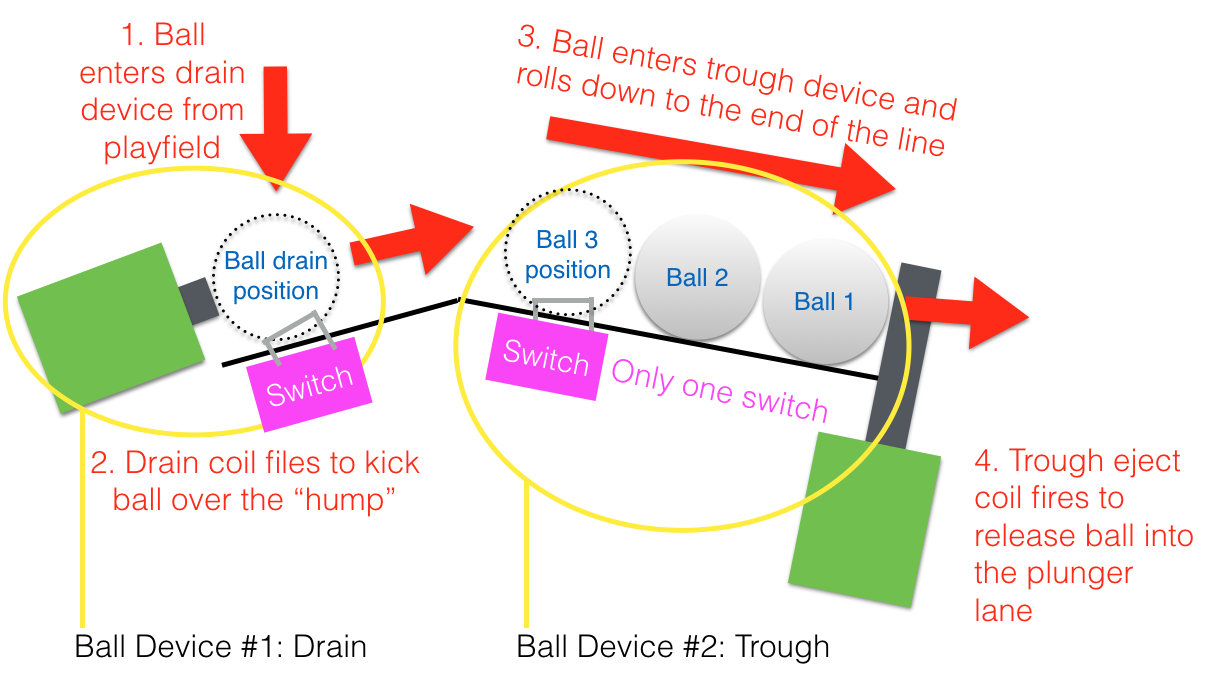
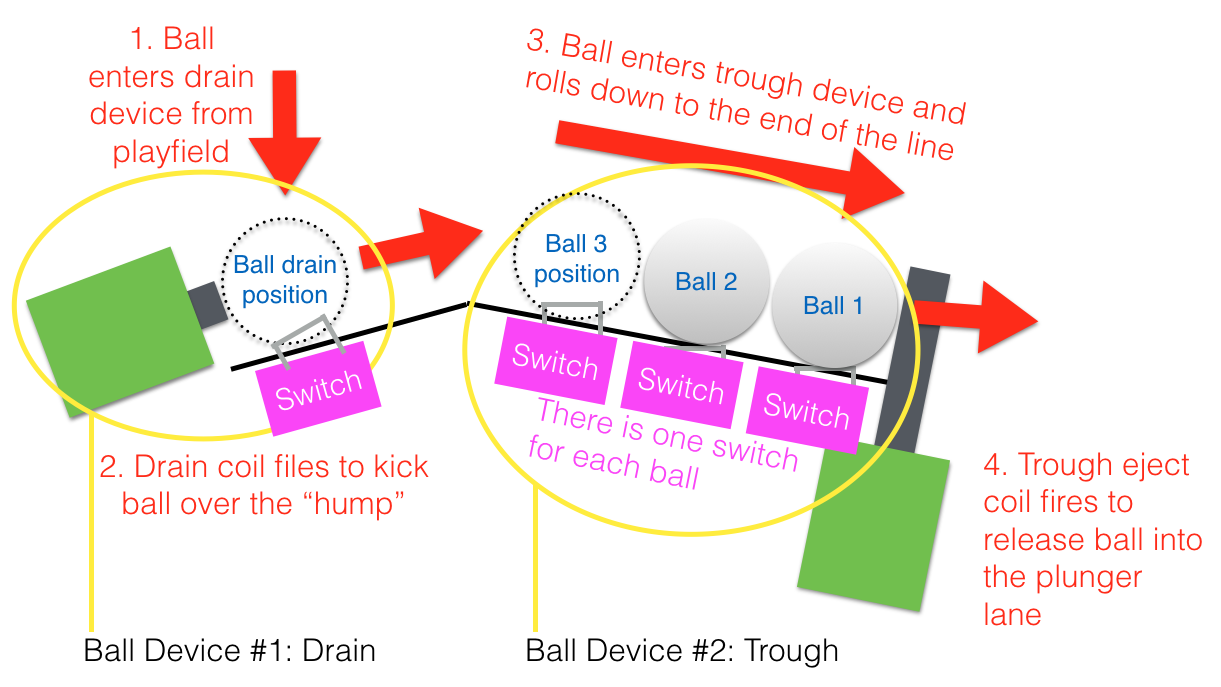
removed old docs & typos

diff --git a/mechs/troughs/test_two_coil_multiple_switches.py b/mechs/troughs/test_two_coil_multiple_switches.py
@@ -5,7 +5,7 @@ class TestTwoCoilMultipleSwitches(MpfDocsTestCase):
 
     rst_target = 'mechs/troughs/two_coil_multiple_switches'
 
-    def test_modern_mechanical(self):
+    def test_two_coil_multiple_switches(self):
         self.assertIn('bd_trough', self.machine.ball_devices)
         self.assertIn('bd_drain', self.machine.ball_devices)
 

diff --git a/mechs/troughs/test_two_coil_one_switch.py b/mechs/troughs/test_two_coil_one_switch.py
@@ -5,7 +5,7 @@ class TestTwoCoilOneSwitch(MpfDocsTestCase):
 
     rst_target = 'mechs/troughs/two_coil_one_switch'
 
-    def test_modern_mechanical(self):
+    def test_two_coil_one_switch(self):
         self.assertIn('bd_trough', self.machine.ball_devices)
         self.assertIn('bd_drain', self.machine.ball_devices)
 

diff --git a/mechs/troughs/two_coil_multiple_switches.rst b/mechs/troughs/two_coil_multiple_switches.rst
@@ -9,7 +9,8 @@ This guide is written for the types of devices that have one switch per
 ball. If your configuration only has a single switch (like Gottlieb System 3
 machines), then use :doc:`this guide <two_coil_one_switch>` instead.
 
-The following diagram shows the type of layout this guide is for:
+The following diagram shows the type of layout this guide is for: (This is a
+side view)
 
 .. image:: /mechs/images/two_coils_multiple_switches.png
 
@@ -50,7 +51,7 @@ call them *s_ball_trough_1* or *trough_ball_1* or *s_mr_potatohead*.
 ----------------
 
 Next, create the entries in your ``coils:`` section for the drain eject
-coil and the trough release coil. Again, the names doen't matter. We'll call
+coil and the trough release coil. Again, the names don't matter. We'll call
 them *c_drain_eject* and *c_trough_release* and enter them like this:
 
 ::

diff --git a/mechs/troughs/two_coil_one_switch.rst b/mechs/troughs/two_coil_one_switch.rst
@@ -15,7 +15,8 @@ only momentarily activate the trough switch as the ball rolls by, unless the
 trough is full, in which case the last ball that goes into it sits on the
 switch.
 
-The following diagram shows the type of layout this guide is for:
+The following diagram shows the type of layout this guide is for: (This is a
+side view)
 
 .. image:: /mechs/images/two_coils_one_switch.png
 
@@ -47,7 +48,7 @@ use *s_drain* and *s_trough_entry*, though you can call them whatever you want.
 ----------------
 
 Next, create the entries in your ``coils:`` section for the drain eject
-coil and the trough release coil. Again, the names doen't matter. We'll call
+coil and the trough release coil. Again, the names don't matter. We'll call
 them *c_drain_eject* and *c_trough_release* and enter them like this:
 
 ::

diff --git a/mechs/troughs/modern_opto.rst b/mechs/troughs/modern_opto.rst
@@ -5,7 +5,8 @@ This guide will show you how to configure MPF to use a modern-style trough
 with opto boards. (If you have a modern-style trough which uses mechanical
 leaf switches, use :doc:`this guide <modern_mechanical>` instead.
 
-The following diagram shows how the modern trough works:
+The following diagram shows how the modern trough works: (This is a
+side view)
 
 .. image:: /mechs/images/modern_trough.jpg
 

diff --git a/mechs/troughs/modern_mechanical.rst b/mechs/troughs/modern_mechanical.rst
@@ -5,7 +5,8 @@ This guide will show you how to configure MPF to use a modern-style trough
 which uses mechanical leaf switches. If you have a modern trough that uses
 opto boards, use :doc:`this guide <modern_opto>` instead.
 
-The following diagram shows how the modern trough works:
+The following diagram shows how the modern trough works: (This is a
+side view)
 
 .. image:: /mechs/images/modern_trough.jpg
 
